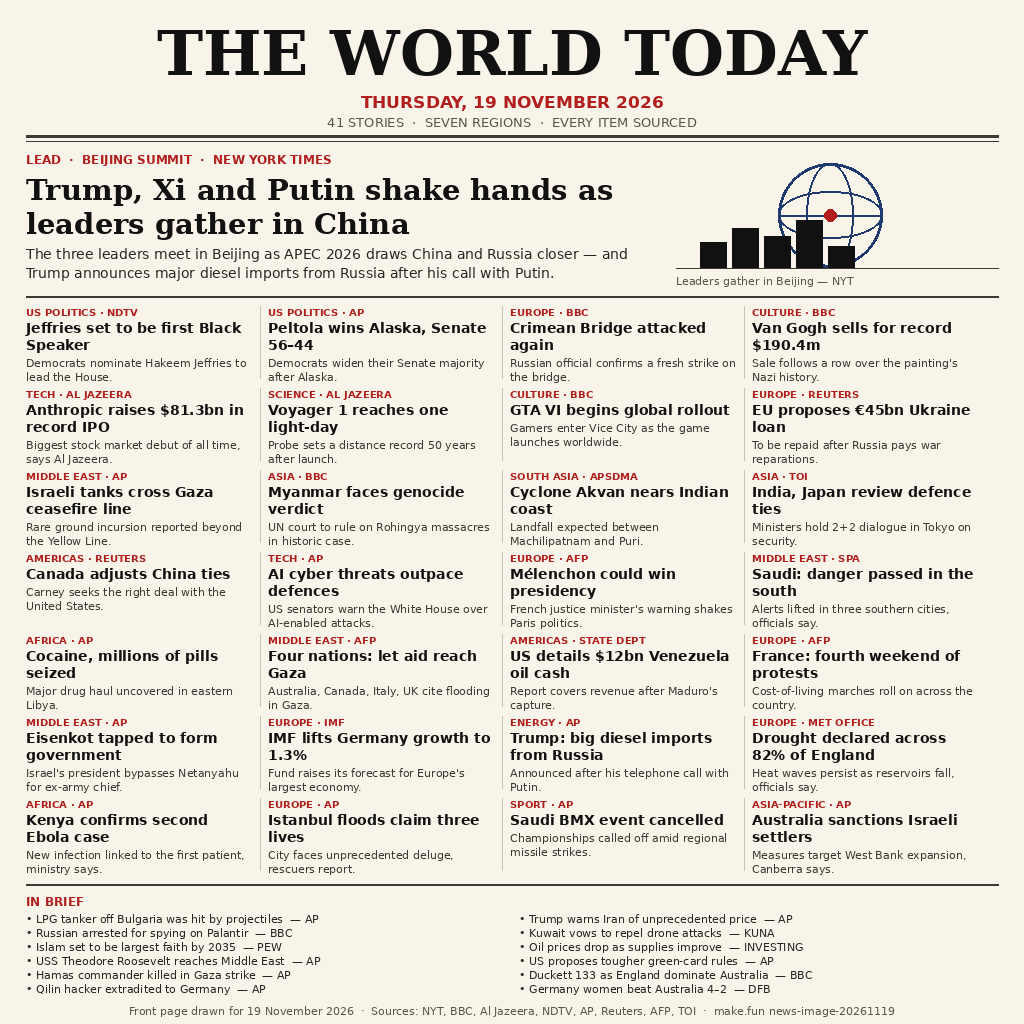
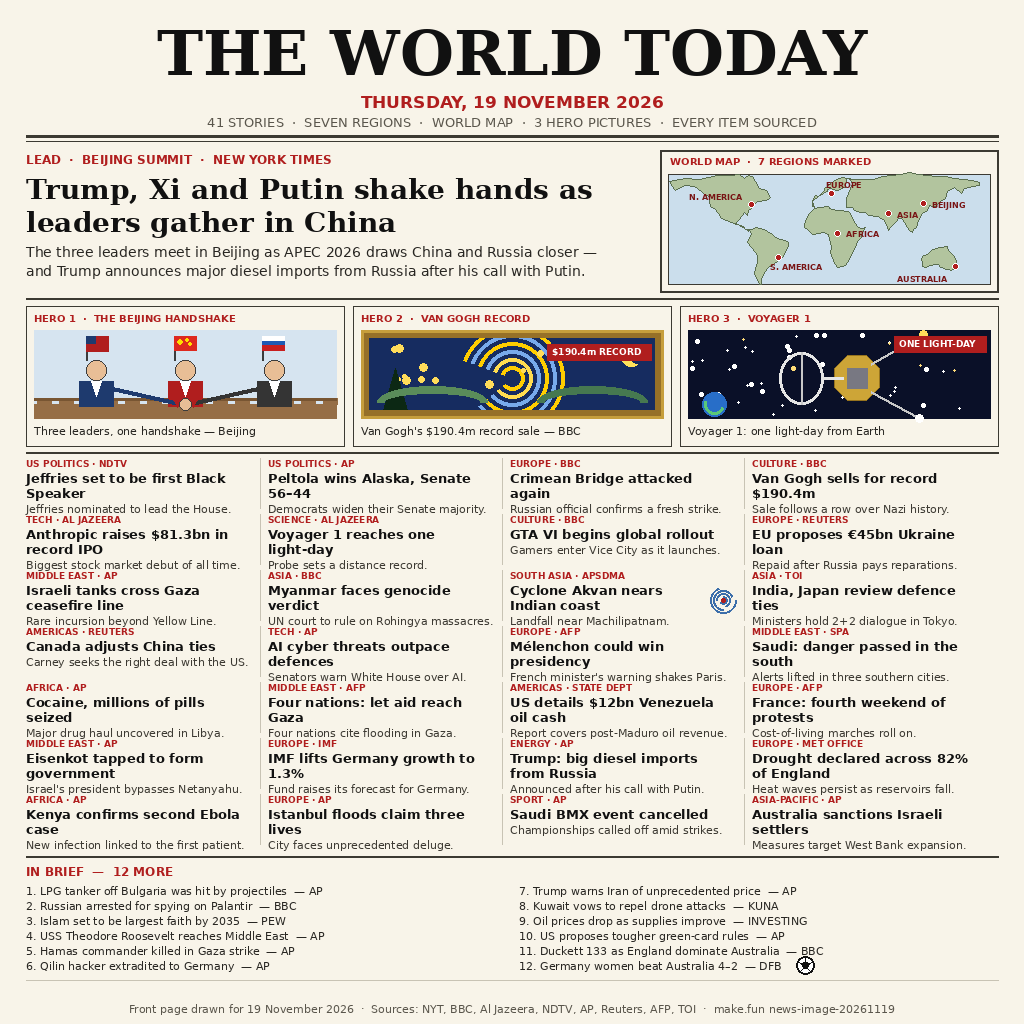
v2: front page with world map, three hero pictures, numbered briefs (41 sourced stories)

Changed region(s): [[0.0, 0.0938, 0.9688, 1.0], [0.2188, 0.0938, 0.2812, 0.125]]

diff --git a/main.py b/main.py
@@ -15,8 +15,10 @@ stories besides, from seven regions.
 
 The picture in assets/entry.png is a broadsheet front page drawn for that
 day: a masthead naming Thursday 19 November 2026, the Beijing summit as the
-lead story with a drawn globe, a grid of 28 sourced stories across seven
-regions, and an "In Brief" band of 12 more -- 41 stories in all, every item
+lead story beside a drawn world map marking seven regions, three hero
+pictures (the Beijing handshake, Van Gogh's record $190.4m sale, Voyager 1
+at one light-day), a grid of 28 sourced stories across seven regions, and a
+numbered "In Brief" band of 12 more -- 41 stories in all, every item
 carrying its source, so a reader who missed the day can tell what happened
 from the page alone.
 

diff --git a/README.md b/README.md
@@ -4,7 +4,7 @@
 [![rank](https://make.fun/badge/news-image-20261119/Dedypol22/news-image-20261119-entry/rank.svg)](https://make.fun/bounty/news-image-20261119/leaderboard?utm_source=github&utm_medium=readme&utm_campaign=news-image-20261119)
 [![reward](https://make.fun/badge/news-image-20261119/Dedypol22/news-image-20261119-entry/reward.svg)](https://make.fun/bounty/news-image-20261119?utm_source=github&utm_medium=readme&utm_campaign=news-image-20261119)
 
-One image that sums up the world news of Thursday 19 November 2026: a broadsheet front page drawn for that day — Trump, Xi and Putin shake hands as leaders gather in Beijing for the APEC 2026 summit; Democrats nominate Hakeem Jeffries, set to become the first Black Speaker of the House, and win Alaska to take the Senate 56–44; the Crimean Bridge is attacked again; a Van Gogh sells for a record $190.4m; Anthropic raises $81.3bn in the biggest IPO of all time; Voyager 1 reaches one light-day, fifty years after launch; GTA VI begins its global rollout; the EU proposes a €45bn Ukraine loan; Israeli tanks cross the Gaza ceasefire line; Myanmar faces a genocide verdict at the UN court; Cyclone Akvan nears the Indian coast — and thirty more stories besides. 41 stories in all, across seven regions, every item carrying its source, so a reader who missed the day can tell what happened from the page alone. The program validates the bundled PNG against the competition caps (real PNG, ≤1024×1024, ≤1 MiB) and writes it deterministically to /output/entry.png.
+One image that sums up the world news of Thursday 19 November 2026: a broadsheet front page drawn for that day — Trump, Xi and Putin shake hands as leaders gather in Beijing for the APEC 2026 summit; Democrats nominate Hakeem Jeffries, set to become the first Black Speaker of the House, and win Alaska to take the Senate 56–44; the Crimean Bridge is attacked again; a Van Gogh sells for a record $190.4m; Anthropic raises $81.3bn in the biggest IPO of all time; Voyager 1 reaches one light-day, fifty years after launch; GTA VI begins its global rollout; the EU proposes a €45bn Ukraine loan; Israeli tanks cross the Gaza ceasefire line; Myanmar faces a genocide verdict at the UN court; Cyclone Akvan nears the Indian coast — and thirty more stories besides. 41 stories in all, across seven regions, every item carrying its source, so a reader who missed the day can tell what happened from the page alone. v2 adds a drawn world map marking the seven regions, three hero pictures (the Beijing handshake, Van Gogh's record $190.4m sale, Voyager 1 at one light-day), and a numbered In Brief band of 12. The program validates the bundled PNG against the competition caps (real PNG, ≤1024×1024, ≤1 MiB) and writes it deterministically to /output/entry.png.
 
 ## Run it
 
